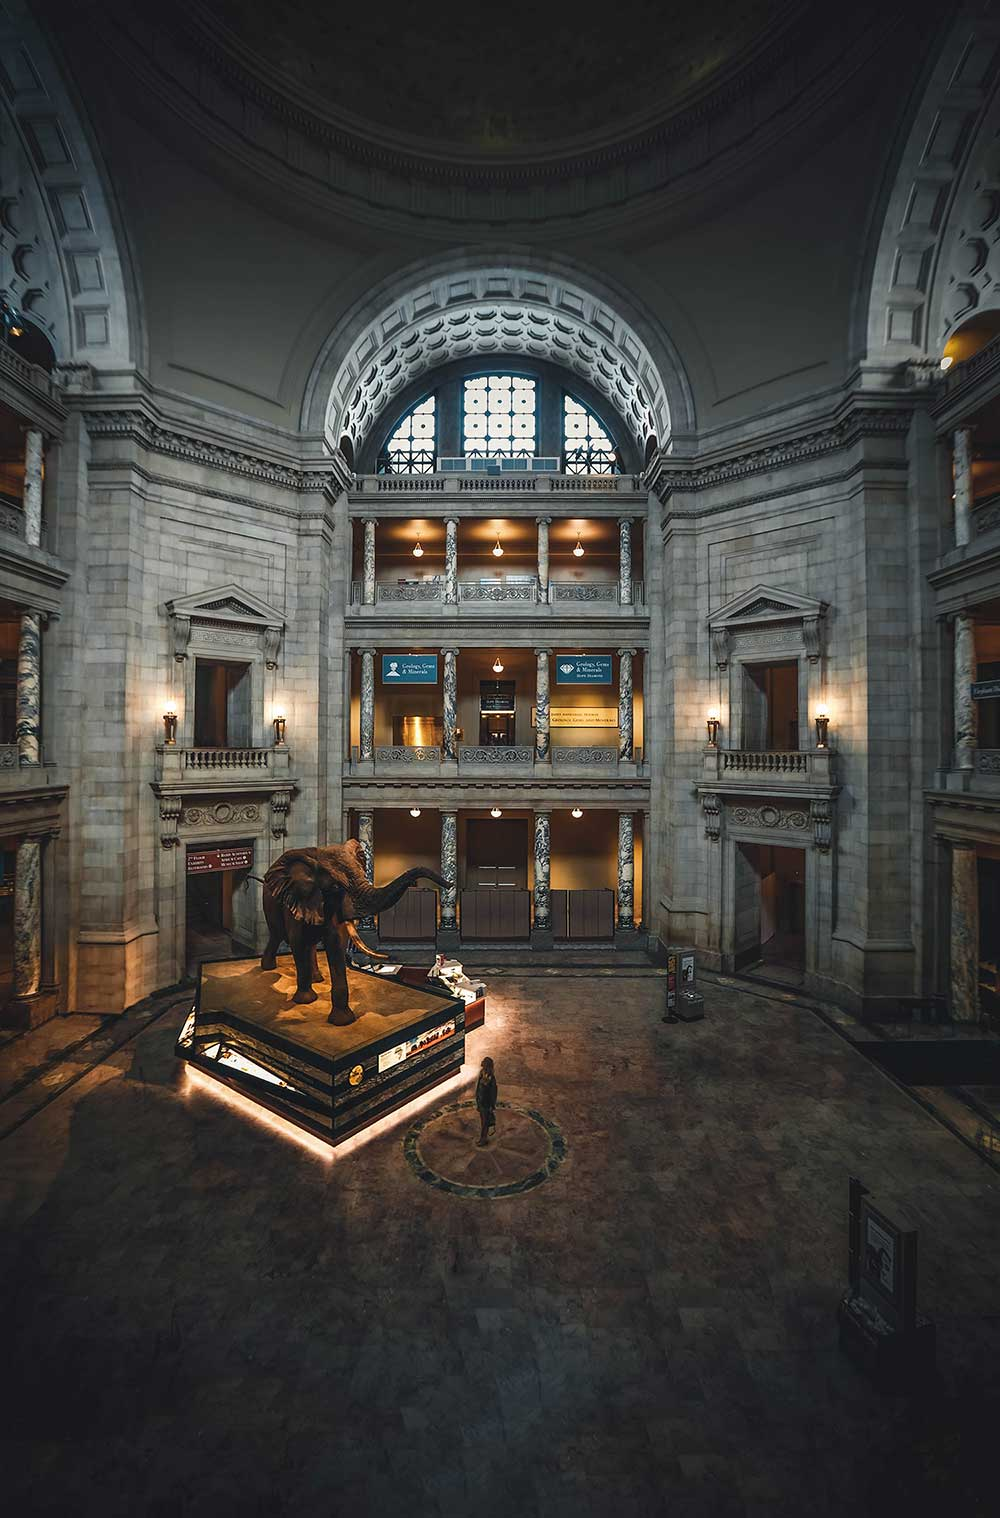
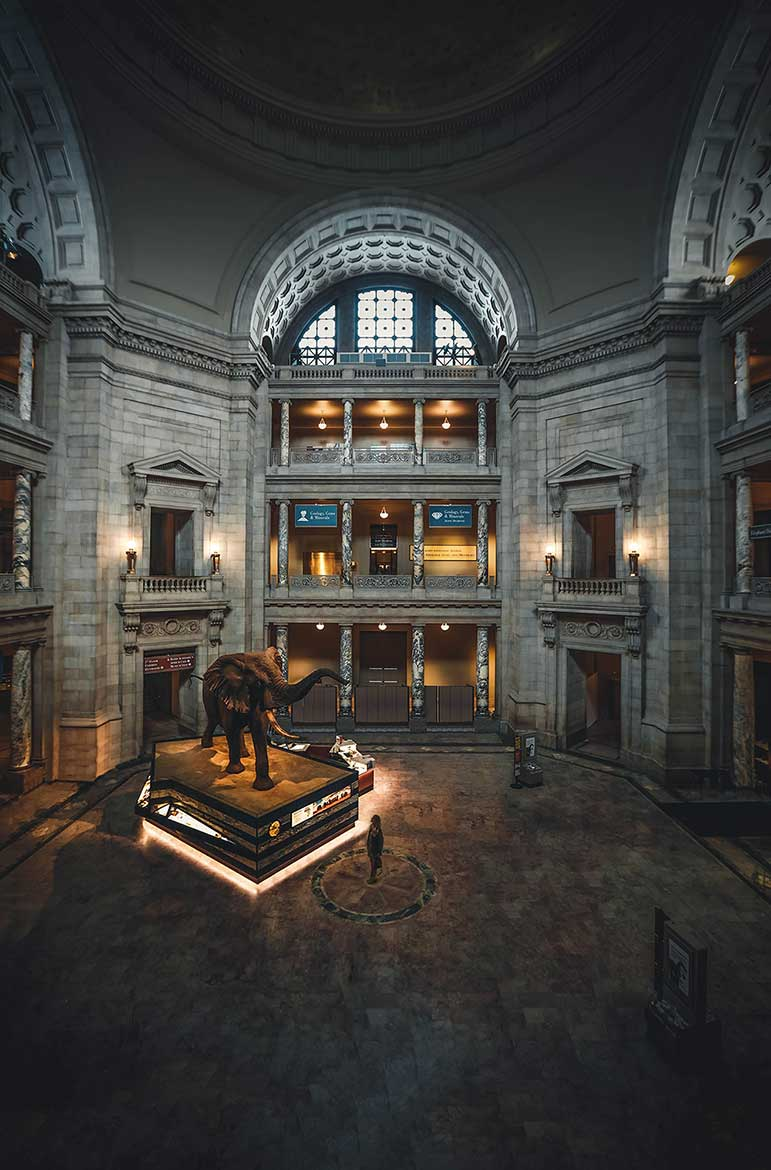
Add footer
- Add footer
- Add improved images
- Add some styling for list and change font-size for headings

diff --git a/index.html b/index.html
@@ -12,80 +12,113 @@
 
   <body>
     <div class="grey-box"></div>
-    <a class="skip-to-content" href="#content">Skip to content</a>
-    <header>
-      <nav>
-        <ul>
-          <li><a href="#">EXLORE</a></li>
-          <li><a href="#">SPACES</a></li>
-          <li><a href="#">EVENTS</a></li>
-          <li><a href="#">VISIT</a></li>
-          <li><a href="#">GET INVOLVED</a></li>
-        </ul>
-        <hr class="hr-nav-line" />
-      </nav>
-      <a href="index.html" class="logo">
+    <div class="body-container">
+      <a class="skip-to-content" href="#content">Skip to content</a>
+      <header>
+        <nav>
+          <ul>
+            <li><a href="#">EXLORE</a></li>
+            <li><a href="#">SPACES</a></li>
+            <li><a href="#">EVENTS</a></li>
+            <li><a href="#">VISIT</a></li>
+            <li><a href="#">GET INVOLVED</a></li>
+          </ul>
+          <hr />
+        </nav>
+        <!--  <a href="index.html" class="logo">
         <img src="Icon-mammut.jpg" alt="Icon mammut" class="" />
-      </a>
-    </header>
-    <main id="content">
-      <section class="flex-container">
-        <figure class="margin-left-none">
-          <img
-            src="images/scientific-main-page.jpg"
-            alt=""
-            style="width: 100% (this should go in the css file)"
-          />
-        </figure>
-        <div class="flex-item">
-          <section>
-            <h1>COMMUNITY SCIENCE MUSEUM</h1>
+      </a> -->
+      </header>
+      <main id="content">
+        <section class="flex-container">
+          <figure class="margin-left-none">
+            <img src="images/scientific-main-page.jpg" alt="Girl in scientific maskin" />
+          </figure>
+          <div class="flex-item-column">
+            <section>
+              <h1>COMMUNITY SCIENCE MUSEUM</h1>
+              <p>
+                Come join us at the Community Science Museum where we’re committed to making science
+                accessible to all.
+              </p>
+            </section>
+            <section>
+              <h2>OPENING HOURS</h2>
+              <p>
+                THUESDAY - THURSDAY: 10:00 - 16:00 FRIDAY: 10:00 -19:00 SATURDAY: 9:00 - 16:00
+                SUNDAY: 9:00 - 13:00
+              </p>
+            </section>
+          </div>
+        </section>
+        <section class="grey-background">
+          <h2>SPECIAL EVENTS & EXHIBITIONS</h2>
+          <div class="flex-container flex-item-row">
+            <figure>
+              <a href="#">
+                <img src="images/night-at-the-museum.jpg" alt="The museum by night" />
+                <figcaption>Night at the museum</figcaption>
+              </a>
+            </figure>
+            <figure>
+              <a href="#">
+                <img src="images/skelleton.jpg" alt="Energetica Exhibition" />
+                <figcaption>Energetica Exhibition on Loan</figcaption>
+              </a>
+            </figure>
+            <figure>
+              <a href="#">
+                <img src="images/visiting-professor.jpg" alt="Visiting Professor" />
+                <figcaption>Visiting Professor of Aeronautics</figcaption>
+              </a>
+            </figure>
+          </div>
+        </section>
+        <section class="info-section">
+          <div class="circle-info-box">
+            <h3>DID YOU KNOW THAT..</h3>
             <p>
-              Come join us at the Community Science Museum where we’re committed to making science
-              accessible to all.
+              During the school holidays we run special holiday clubs where you can join other
+              children your age to go on a journey of discovery. Each holiday we pick a new theme to
+              explore. To find out more about the holiday club and how you can join, send us a
+              message.
+            </p>
+          </div>
+        </section>
+      </main>
+      <footer>
+        <hr />
+        <h2>EXPLORE TOGETHER</h2>
+        <div class="flex-container">
+          <section class="flex-item-row">
+            <h3>Location</h3>
+            <p>Kirsten Flagstads Plass 1</p>
+            <p>0150 Oslo</p>
+          </section>
+          <section class="flex-item-row">
+            <h3>Links</h3>
+            <ul>
+              <li><a href="">Admission</a></li>
+              <li><a href="">Opening hours</a></li>
+              <li><a href="">Azzessibility</a></li>
+              <li><a href="">Food and drinks</a></li>
+              <li><a href="">Shop</a></li>
+            </ul>
+          </section>
+          <section class="flex-item-row">
+            <div class="some-icons">
+              <a aria-label="Instagram" href="#"><i class="fab fa-instagram"></i></a>
+              <a aria-label="Facebook" href="#"><i class="fab fa-facebook"></i></a>
+            </div>
+            <h3>COMMUNITY SCIENCE MUSEUM</h3>
+            <p>Phone: <span class="padding-left">+47 12 34 56 78</span></p>
+            <p>
+              E-mail: <span class="padding-left"><a href="">post@c-s-museum.com</a></span>
             </p>
           </section>
-          <section>
-            <h2>OPENING HOURS</h2>
-            <p>
-              THUESDAY - THURSDAY: 10:00 - 16:00 FRIDAY: 10:00 -19:00 SATURDAY: 9:00 - 16:00 SUNDAY:
-              9:00 - 13:00
-            </p>
-          </section>
         </div>
-      </section>
-      <section class="grey-background">
-        <h2>SPECIAL EVENTS & EXHIBITIONS</h2>
-        <div class="flex-container flex-item-row">
-          <figure>
-            <img src="images/night-at-the-museum.jpg" alt="The museum by night" />
-            <figcaption>Night at the museum</figcaption>
-          </figure>
-          <figure>
-            <img src="images/skelleton.jpg" alt="Energetica Exhibition" />
-            <figcaption>Energetica Exhibition on Loan</figcaption>
-          </figure>
-          <figure>
-            <img src="images/visiting-professor.jpg" alt="Visiting Professor" />
-            <figcaption>Visiting Professor of Aeronautics</figcaption>
-          </figure>
-        </div>
-      </section>
-      <section class="info-section ">
-        <div class="circle-info-box">
-        <h2>Did you know that</h2>
-        <p>During the school holidays we run
-          special holiday clubs where you can join
-          other children your age to go on a
-          journey of discovery. Each holiday we
-          pick a new theme to explore. To find out
-          more about the holiday club and how you
-          can join, send us a message.</p>
-        </div>
-      </section>
-    </main>
-    <footer>
-    </hr>
-    </footer>
+      </footer>
+    </div>
+    <div class="grey-box"></div>
   </body>
 </html>

diff --git a/styles/styles.css b/styles/styles.css
@@ -9,12 +9,40 @@
 
 body {
   font-family: "Open Sans", Verdana, sans-serif;
+  font-size: 16px;
+}
+
+.body-container {
   margin: 0 15%;
 }
 
 h1 {
-  font-size: 50px;
-  margin-bottom: 15px;
+  font-size: 2.5rem;
+  margin: 15px 0;
+}
+
+h2 {
+  font-size: bold 1.25rem;
+}
+
+h3 {
+  font-size: 1rem;
+}
+
+a {
+  color: var(--main-text-black);
+}
+
+a:hover {
+  font-weight: bold;
+}
+
+a:focus {
+  background-color: var(--focus-yellow);
+}
+
+a:active {
+  color: var(--main-text-black);
 }
 
 .grey-box {
@@ -46,9 +74,10 @@ header a {
   display: flex;
   flex-direction: row;
   padding: 10px;
+  justify-content: space-between;
 }
 
-.flex-item {
+.flex-item-column {
   display: flex;
   flex-flow: column wrap;
   justify-content: space-between;
@@ -56,11 +85,7 @@ header a {
 
 .flex-item-row {
   flex-flow: row;
-  justify-content: space-between;
-}
-
-.flex-item-row figure img {
-  height: 28rem;
+  padding: 0 10px;
 }
 
 figure {
@@ -83,7 +108,7 @@ img {
   background-repeat: no-repeat;
   display: flex;
   height: 32rem;
-  margin: 5rem 0;
+  margin: 5rem 0 3rem;
 }
 
 .circle-info-box {
@@ -100,4 +125,26 @@ img {
 
 .circle-info-box h2 p {
   padding: 1rem;
+}
+
+ul {
+  list-style: none;
+  padding-left: 0;
+}
+
+li {
+}
+
+.padding-left {
+  padding-left: 1rem;
+}
+
+footer {
+  margin: 10px 0;
+}
+
+.some-icons {
+  margin: 0 20px 20px;
+  font-size: xx-large;
+  text-align: end;
 }

diff --git a/styles/nav-menu.css b/styles/nav-menu.css
@@ -4,6 +4,7 @@ nav a {
   color: var(--main-text-black);
   padding: 14px;
   text-decoration: none;
+  flex-basis: 50rem;
 }
 
 nav a:hover {
